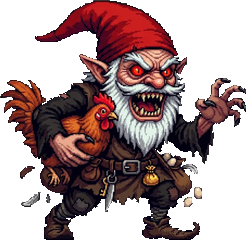
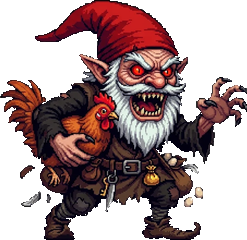
MOBs : Vampire (HD + sprite), nettoyage halos/pixels isolés des sprites
Claude-Session: https://claude.ai/code/session_01CGbgeE2dvgXWCzhubxQnjt

diff --git a/sw.js b/sw.js
@@ -1,6 +1,6 @@
 // Service worker Aldebaran (Aventurier + Maître du destin) : l'appli s'ouvre hors ligne,
 // mais va toujours chercher la dernière version sur le réseau quand il y en a un.
-const CACHE='aldebaran-v218';
+const CACHE='aldebaran-v219';
 const FILES=['./','./index.html','./manifest.webmanifest','./icon-192.png','./icon-512.png','./icon-maskable-512.png','./apple-touch-icon.png','./favicon.png','./res/couverture.webp','./res/mains/humain.webp','./res/mains/troll.webp','./res/mains/demon.webp','./res/mains/trifide.webp','./res/mains/droide.webp','./res/sprites/coffre.png','./res/sprites/caisse.png','./res/sprites/tech.png','./res/sprites/jarre.png','./res/sprites/viande.png'];
 self.addEventListener('install',e=>{ e.waitUntil(caches.open(CACHE).then(c=>c.addAll(FILES.map(u=>new Request(u,{cache:'reload'})))).then(()=>self.skipWaiting())); });
 self.addEventListener('activate',e=>{ e.waitUntil(caches.keys().then(k=>Promise.all(k.filter(n=>n!==CACHE).map(n=>caches.delete(n)))).then(()=>self.clients.claim())); });

diff --git a/index.html b/index.html
@@ -4762,7 +4762,7 @@ function tpFrame(){ const NF=16, f=Math.floor(performance.now()/70)%NF; FPS.tpf=
     x.globalAlpha=Math.min(1,a*1.3); x.fillStyle=wht?'#ffffff':'#7ff0ff'; x.fillRect((px+Math.sin(wob+u*9)*2.5)|0,yy|0,1+(i%3===0),len); }
   x.globalAlpha=1; c._k='mktp'; return FPS.tpf[f]=c; }
 /* sprites de MOB pour la zone de jeu : res/mobs/<clé>.png (la version HD du bestiaire reste dans mobs/<clé>.webp) */
-const MOBSPR=['cyber-gobelin','gnome-chapardeur'];
+const MOBSPR=['cyber-gobelin','gnome-chapardeur','vampire'];
 const slugMob=n=>String(n||'').normalize('NFD').replace(/[\u0300-\u036f]/g,'').toLowerCase().replace(/[^a-z0-9]+/g,'-').replace(/^-|-$/g,'');
 function mobSprKey(t){ if(t.type!=='mob'&&t.type!=='npc') return null; const m=/mobs\/([\w-]+)\.webp/.exec(t.img||''); let k=m&&m[1]; if(k&&MOBSPR.includes(k)) return k;
   k=slugMob(t.name).replace(/-\d+$/,''); return MOBSPR.includes(k)?k:null; }
